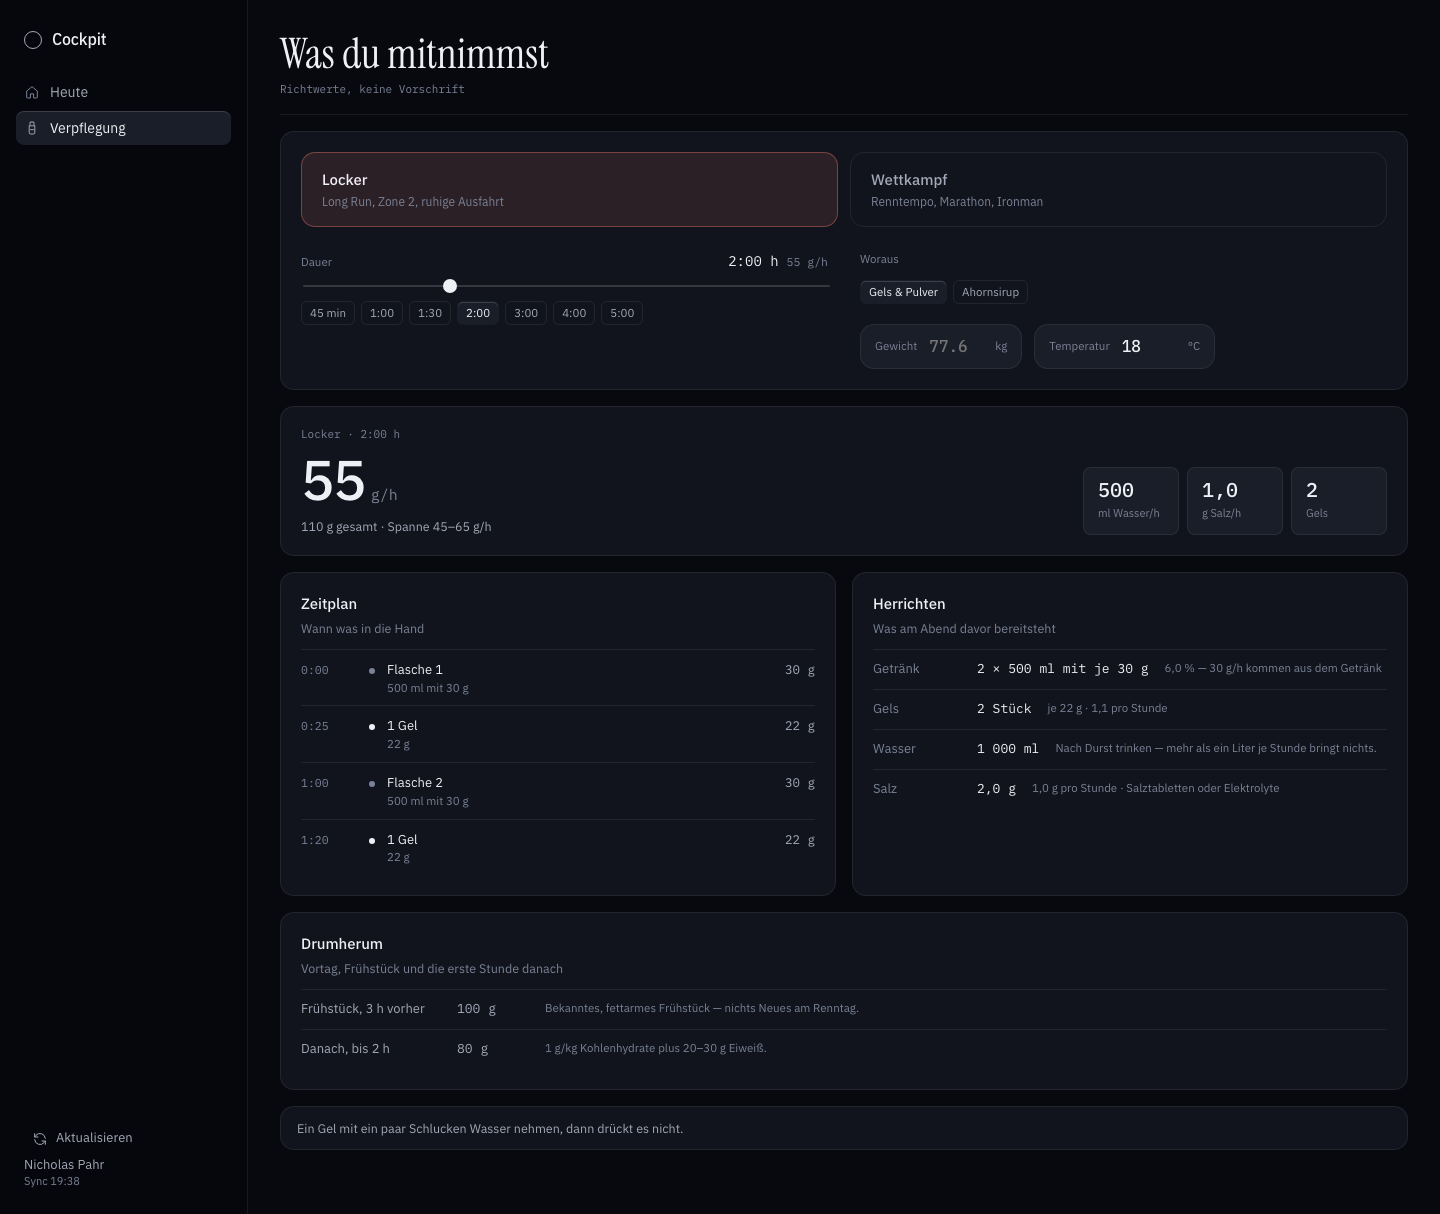
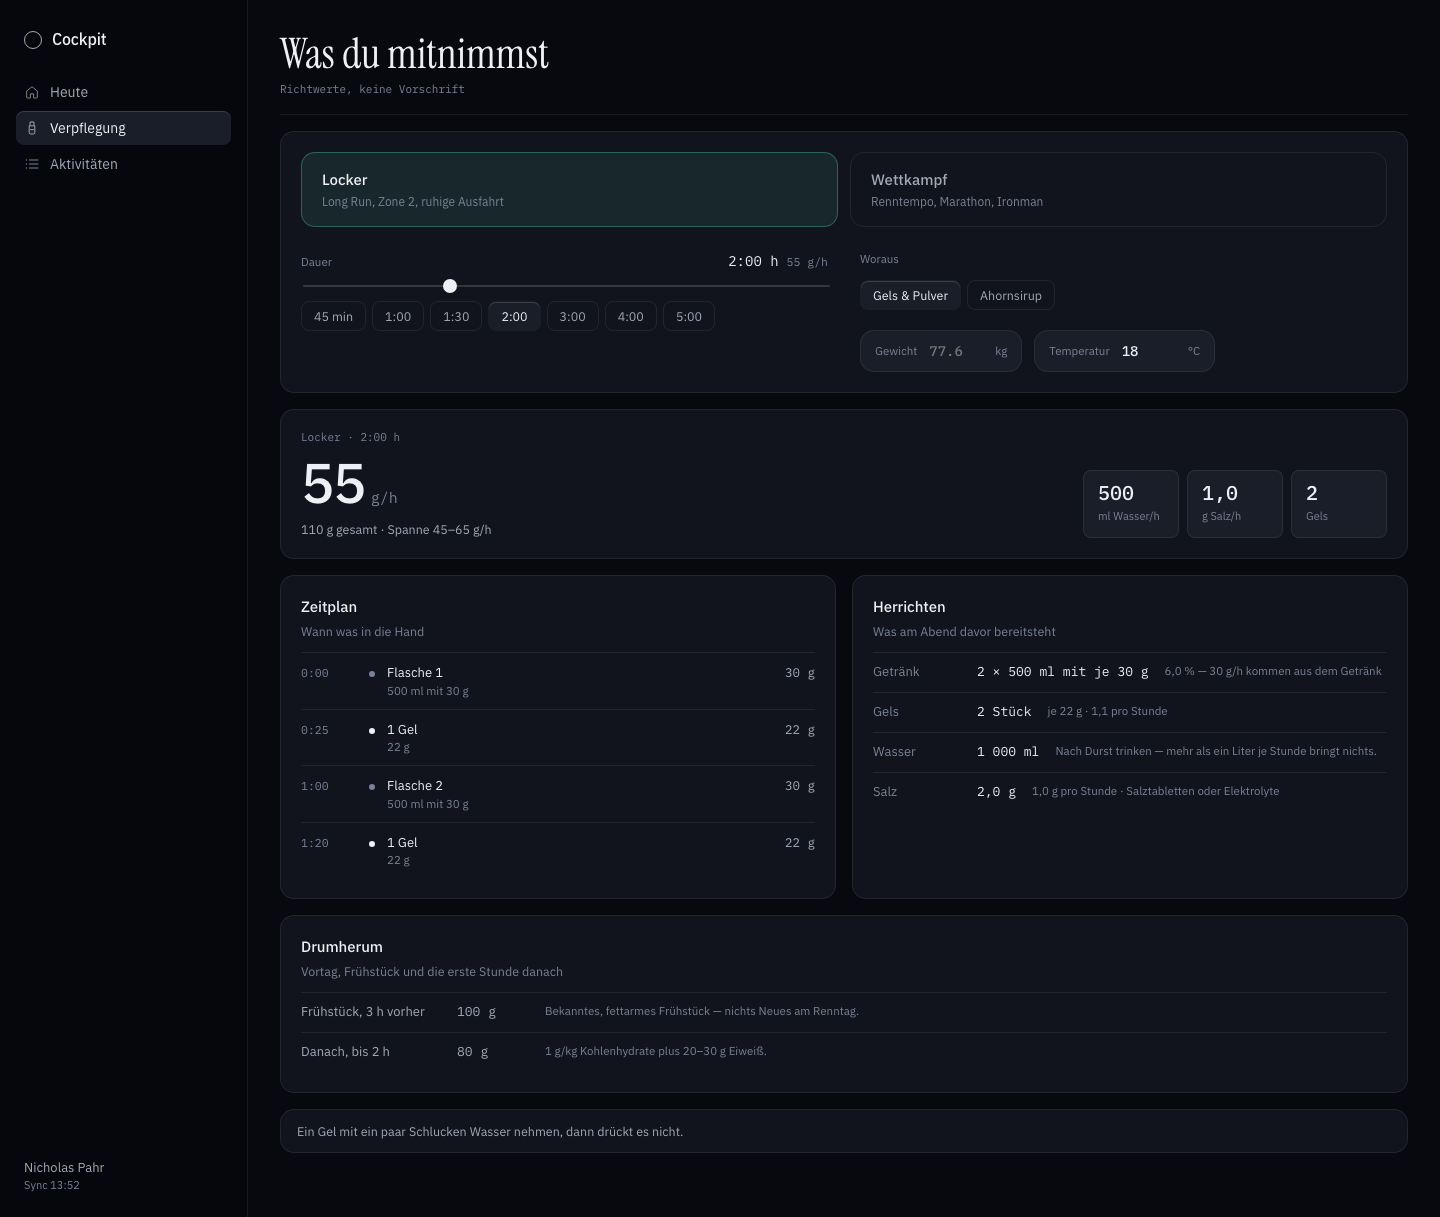
Revert "Merge branch 'feature/tb-5-akzentfarbe-ro-tlich' into develop"
This reverts commit 9597bacb911528addbad21852fc80f6df8cc22f4, reversing
changes made to bc2e52e998439a72d2e79d96bbcc1e4497ca99fa.

diff --git a/web/src/styles.css b/web/src/styles.css
@@ -56,11 +56,9 @@
   --text-2: #a3a9b8;
   --text-3: #7a8296;
 
-  --accent: #c8675f;
-  --accent-soft: rgba(200, 103, 95, 0.14);
-  --accent-line: rgba(200, 103, 95, 0.5);
-  --accent-hover: #d4776f;
-  --on-accent: #170707;
+  --accent: #3f9e8f;
+  --accent-soft: rgba(63, 158, 143, 0.14);
+  --on-accent: #04100e;
 
   --good: #4cc38a;
   --mid: #d0a54e;
@@ -348,7 +346,7 @@ h1 {
 }
 
 .btn:hover {
-  background: var(--accent-hover);
+  background: #4bb0a0;
 }
 
 .btn:active {
@@ -924,7 +922,7 @@ table.list .load {
 }
 
 .mode-option.active {
-  border-color: var(--accent-line);
+  border-color: rgba(63, 158, 143, 0.5);
   background: var(--accent-soft);
 }
 

diff --git a/docs/ENTSCHEIDUNGEN.md b/docs/ENTSCHEIDUNGEN.md
@@ -549,7 +549,6 @@ Pausen anders ab (23.10.: 2.050 m, 3.024 s gegen 2.542 s). Auch das fiel durch.
 | D-37 | 01.11.2026 | **Die Einheit ist ein Blatt mit Profil** (Variante 2 aus dem Mockup): geplanter Verlauf zuerst, darunter Dauer · Distanz · Last, Aufbau, Verpflegung, bei erledigten Einheiten „Geplant · gemacht“. Dauer und Distanz stehen beide, das Ziel der Einheit führt; der fehlende Wert bekommt ein **≈** und wird aus dem eigenen Median der letzten 90 Tage geschätzt (Rad 24 km/h, Lauf 8,6 km/h, Schwimmen 2,6 km/h). Kohlenhydrate erst ab 60 Minuten, aus `fuel.py`. Kein Coach-Text, keine Empfehlung. | Der Athlet will sehen, was die Einheit verlangt, nicht was jemand dazu meint. Die Schätzung ist aus dem eigenen Fahrtenbuch abgeleitet und damit nachprüfbar; erfundene Zahlen sind verboten. | Neue Tabelle `event` mit `raw` (Schritte, Zonen), neues Modul `plan.py`, `GET /api/session/{id}`, Overlay `SessionSheet` mit `SessionProfile`. |
 
 | D-55 | 04.11.2026 | **`develop` ist die Integrationsstrecke, `main` die Abnahme.** Jedes Ticket arbeitet auf einem Feature-Branch von `main`; freigegeben wird nach `develop`, und `develop` läuft auf dem Homeserver als eigene Vorschau-Instanz (Port 8101, eigenes Image, eigene Kopie der Datenbank). Nach `main` kommt ein Stand erst nach der Abnahme am Handy und im Browser. | Bisher gab es nur `main`: jede Änderung war sofort produktiv, ohne Zwischenstufe zum Ansehen. Getestet wurde damit am Produktivstand — ein Fehler war sofort sichtbar, aber nicht mehr rückholbar. | Branch `develop`, `docker-compose.develop.yml`, `docs/DEPLOY-DEVELOP.md`, Tailscale-Serve auf Port 8443; `AGENTS.md` im Repo hält die Regeln für Menschen und Agenten fest. |
-| D-56 | 04.11.2026 | **Der Akzent ist rötlich statt teal.** `--accent` wechselt von Wörthersee-Teal (#3f9e8f) auf Ziegelrot (#c8675f); `--accent-soft`, `--accent-line`, `--accent-hover` (#d4776f) und `--on-accent` (#170707) folgen ihm. Die neutrale Rampe und die Befundfarben (grün, gelb, orange, rot) bleiben unverändert. | Der Wunsch steht im Ticket TB-5: statt Teal soll der Akzent rötlicher sein. Die Richtung B+ aus D-29 bleibt, die neutrale Rampe trägt weiter — nur die Akzentfamilie wechselt. | Akzentfarben liegen jetzt vollständig als Tokens in `web/src/styles.css`; Hover und Auswahlrahmen sind keine Einzelwerte mehr. Kontrast: 5,3:1 auf `--bg`, 4,9:1 auf `--card`, 5,2:1 für `--on-accent` auf dem Akzent. |
 | D-54 | 04.11.2026 | **Der Sync spiegelt die Aktivitätenliste von intervals.** Für den gesyncten Zeitraum gilt: was intervals nicht mehr führt, verschwindet auch aus dem Cockpit — und zwar **vor** der Dublettenprüfung. Bisher blieb eine dort gelöschte Zeile einfach stehen; weil die Prüfung die beiden Aufzeichnungen vergleicht, hielt sie die tote Wahoo-Zeile für die bessere und entfernte die lebende Health-Sync-Zeile. Ergebnis: eine Einheit, deren Sekundenwerte niemand mehr liefern kann. | Zwei Zeilen aus derselben Fahrt, eine davon in intervals gelöscht: die Woche zeigte die tote, die lebende fehlte, und der Verlauf war leer (D-53). Die Quelle ist die Wahrheit, nicht unser Bestand. | `db.delete_unlisted` je Sync über den gesyncten Zeitraum, Verläufe verschwinden mit ihrer Zeile (Fremdschlüssel), das Sync-Log nennt `verwaist=n`. Nichts außerhalb des gesyncten Zeitraums wird angefasst. |
 | D-53 | 04.11.2026 | **Jede erledigte Einheit zeigt ihren Verlauf — aus der Aufzeichnung selbst.** Die Sekundenwerte kommen mit dem Sync in die Datenbank: für Einheiten aus intervals über `/activity/{id}/streams`, für Einheiten aus Garmin aus dem FIT der Originalaufzeichnung (`download_activity`, gelesen mit `fitparse`). Abgelegt wird je Einheit **eine** Reihe mit Zeit, Leistung, Puls, Tempo und Strecke in 5-Sekunden-Mitteln — feiner als jeder Bildschirm, gröber als die Aufzeichnung. Geholt wird beim Sync nur für die **letzten 14 Tage** und nur, was fehlt; ein Verlauf, den die Quelle nicht hat, wird nicht erfunden (D-37). Gezeichnet wird im Einheiten-Blatt: **Rad die Leistung** mit FTP-Linie, **Lauf das Tempo** (Achse umgedreht, schneller ist oben), **der Puls als zweite, ruhigere Linie** in beiden Fällen; Schwimmen und Kraft zeigen nur den Puls. Ausgeliefert werden höchstens 180 Punkte. **Hebt den Halbsatz aus D-42 auf** („kein Verlaufsprofil") — er entstand aus der Not: damals lagen keine Sekundenwerte in der Datenbank. | Ein Durchschnitt beantwortet die Frage nach der Einheit nicht: ob die drei Blöcke eines 3 × 10 min standen oder der erste zu hart war und der dritte einbrach, sieht man nur im Verlauf. Die Aufzeichnung gibt es, sie wurde nur nie abgeholt — und für Läufe liegt sie bei Garmin, für Rad und Kraft bei intervals. | Neue Tabelle `activity_stream`, Modul `streams.py`, `IntervalsClient.streams`, Feld `series` in `GET /api/unit/{row_id}` und im Ist-Teil von `GET /api/session/{id}`, Komponente `WorkoutChart` in `UnitSheet` und `SessionSheet`. Neue Abhängigkeit `fitparse`. |
 | D-34 | 01.11.2026 | **Fitness und Müdigkeit rechnet das Cockpit selbst.** Bisher wurden die Tageswerte `ctl`/`atl` aus intervals übernommen. Seit die Läufe über die Personal API kommen, kennt intervals diese Einheiten nicht mehr — seine Form würde ab dem Sensorwechsel systematisch zu niedrig stehen. Ab jetzt zählt die eigene Rechnung (EWMA 42/7 Tage) über die eigenen Aktivitäten. | Ein Wert, der auf einem fremden, unvollständigen Datensatz beruht, ist schlimmer als eine eigene Rechnung, die man erklären kann. | `daily_days` ignoriert die übernommenen Werte; die Last kommt aus `load.py` (Garmin) bzw. intervals (Kraft, Rad). |
@@ -667,5 +666,4 @@ Pausen anders ab (23.10.: 2.050 m, 3.024 s gegen 2.542 s). Auch das fiel durch.
 | 04.11.2026 | D-53: Leistung, Puls und Tempo als Verlauf aus der Aufzeichnung (intervals-Streams, Garmin-FIT), im Blatt der erledigten Einheit gezeichnet |
 | 04.11.2026 | D-54: der Sync entfernt Einheiten, die intervals im gesyncten Zeitraum nicht mehr führt — sonst verdrängt eine tote Zeile die lebende Aufzeichnung |
 | 04.11.2026 | D-55: develop als Integrationsstrecke und Vorschau-Instanz auf dem Server (8101, Tailscale-HTTPS), Arbeitsregeln in AGENTS.md |
-| 04.11.2026 | D-56: Akzent von Wörthersee-Teal auf Ziegelrot (#c8675f), Akzentfamilie als Tokens gebündelt, Befundfarben unverändert |
 | 02.11.2026 | E-34 und D-41: Long Ride doppelt in der Woche (Wahoo + Health Sync), Erkennung über Gesamtzeit, Bewegungszeit oder Strecke, 18 Paare entfernt |

diff --git a/README.md b/README.md
@@ -122,8 +122,8 @@ Verläufe über Flächen, keine Sparklines in Kennzahlen, Sentence case, 4-px-Ra
 - **Drei Schriften, selbst gehostet.** Instrument Serif für Titel und
   Countdown-Zahlen, Plex Sans für Text, Plex Mono für alles Zählbare
   (`web/public/fonts/`, 97 kB zusammen, kein Aufruf an Google).
-- **Ein Akzent.** Ziegelrot (#c8675f) markiert Aktion, Auswahl und den heutigen Tag.
-  Die Ampel der Erholung (Grün, Gelb, Orange, Befund-Rot) bleibt davon getrennt.
+- **Ein Akzent.** Wörthersee-Teal markiert Aktion, Auswahl und den heutigen Tag.
+  Grün, Gelb, Orange, Rot erscheinen nur als Befund der Erholung.
 - **Die Uhr ist ein Instrument.** Zonenring, Referenzmarke auf den
   21-Tage-Schnitt, Skalen in den Treiberzeilen.
 - **Kein Diagramm-Paket.** Die Lastkurve ist von Hand als SVG gezeichnet;
